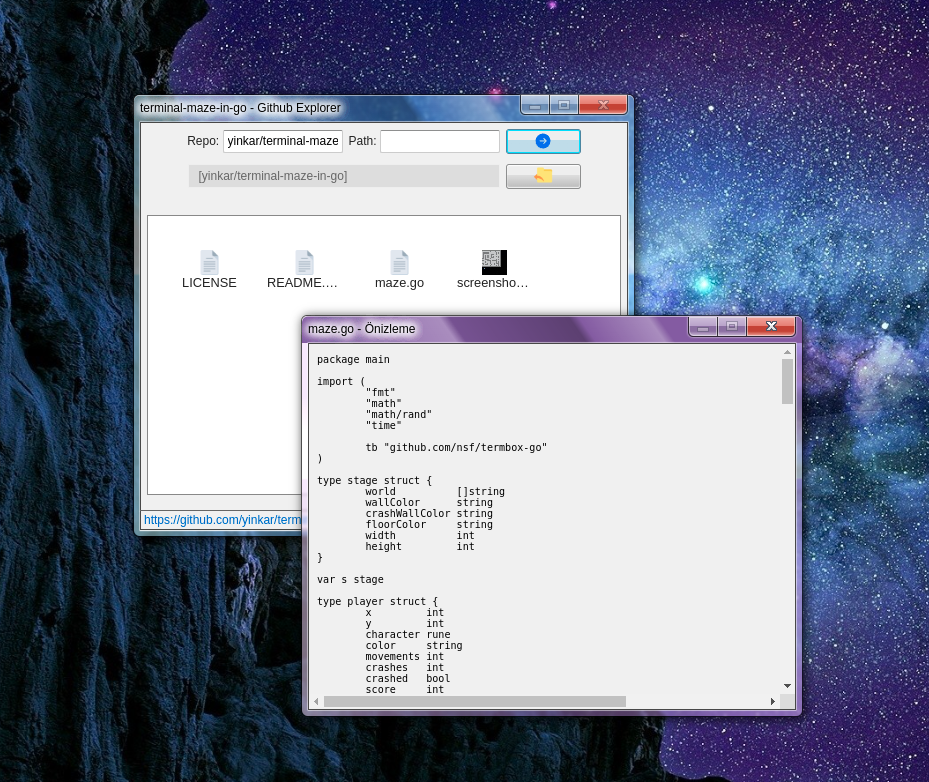
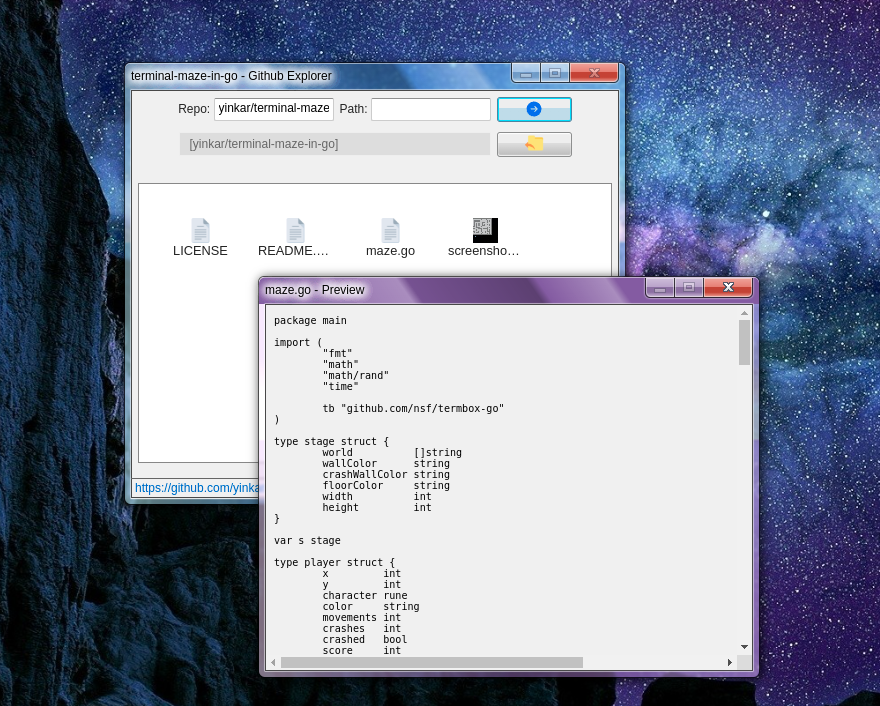
Oops, mental language interference

diff --git a/src/components/Preview.vue b/src/components/Preview.vue
@@ -33,7 +33,7 @@ onMounted(() => {
 <template>
   <div class="preview-popup window violet glass" ref="previewPopup" :class="{ active: preview }" :style="{ left: `${positionX}px`, top: `${positionY}px` }">
     <div class="title-bar" style="padding: 0">
-      <div class="title-bar-text" style="display: block; width: 100%; padding: 6px;" @mousedown="titleMouseDown">{{ title }} - Önizleme</div>
+      <div class="title-bar-text" style="display: block; width: 100%; padding: 6px;" @mousedown="titleMouseDown">{{ title }} - Preview</div>
       <div class="title-bar-controls" style="margin-right: 6px;">
         <button aria-label="Minimize" disabled></button>
         <button aria-label="Maximize" disabled></button>
